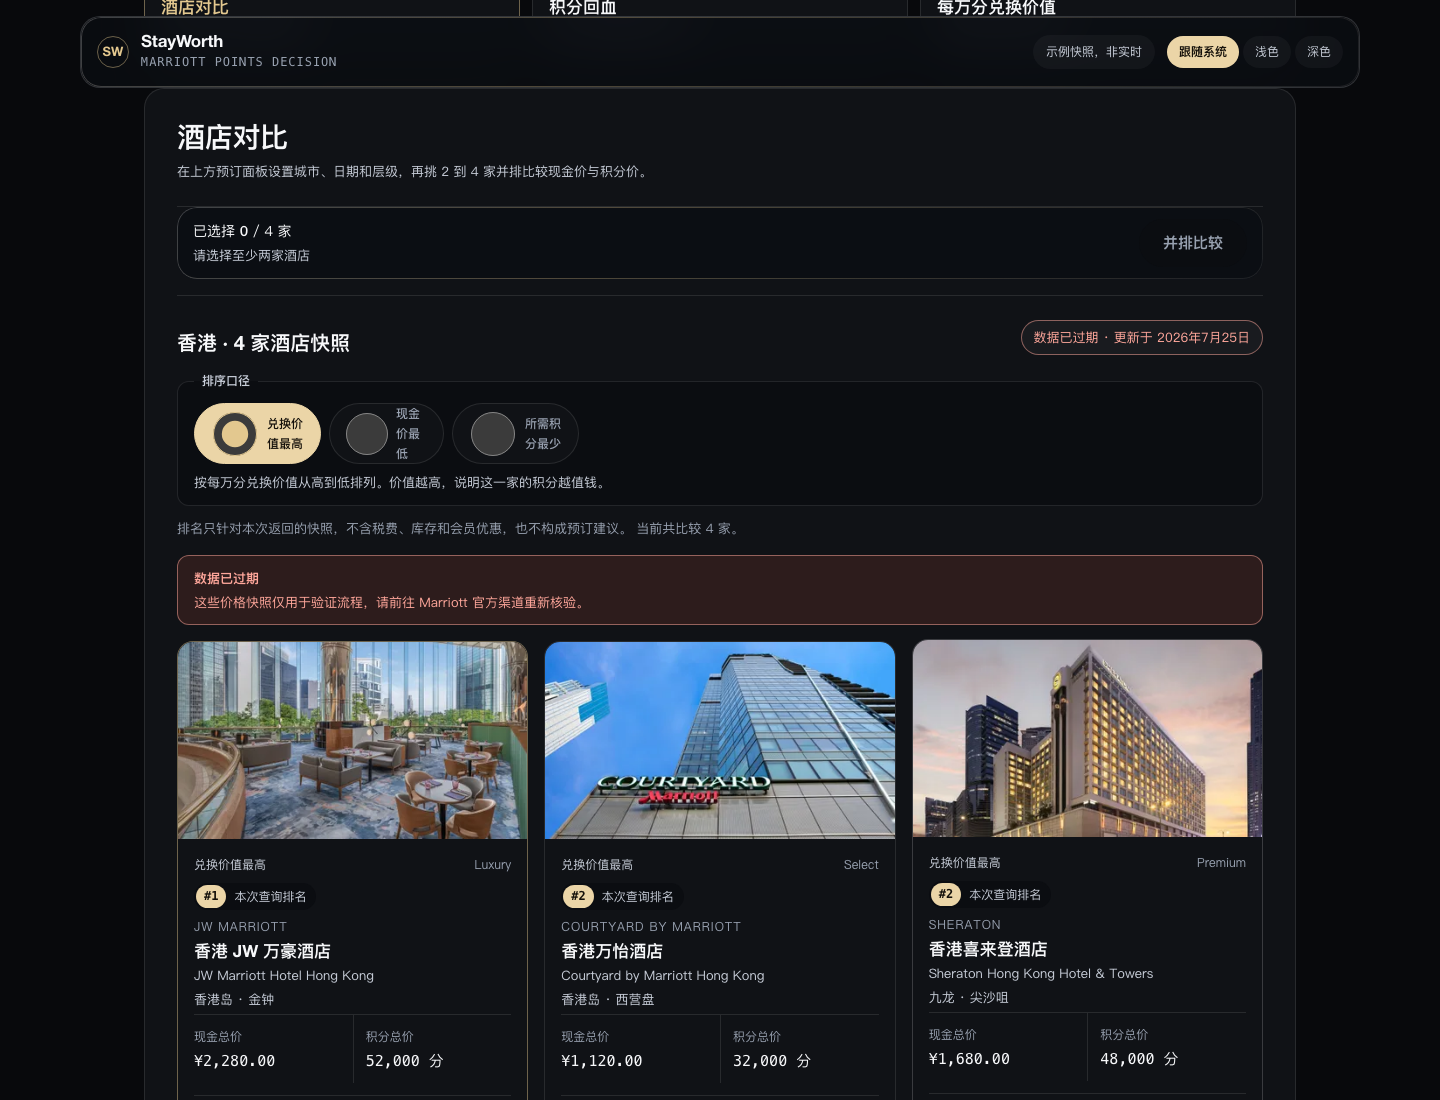
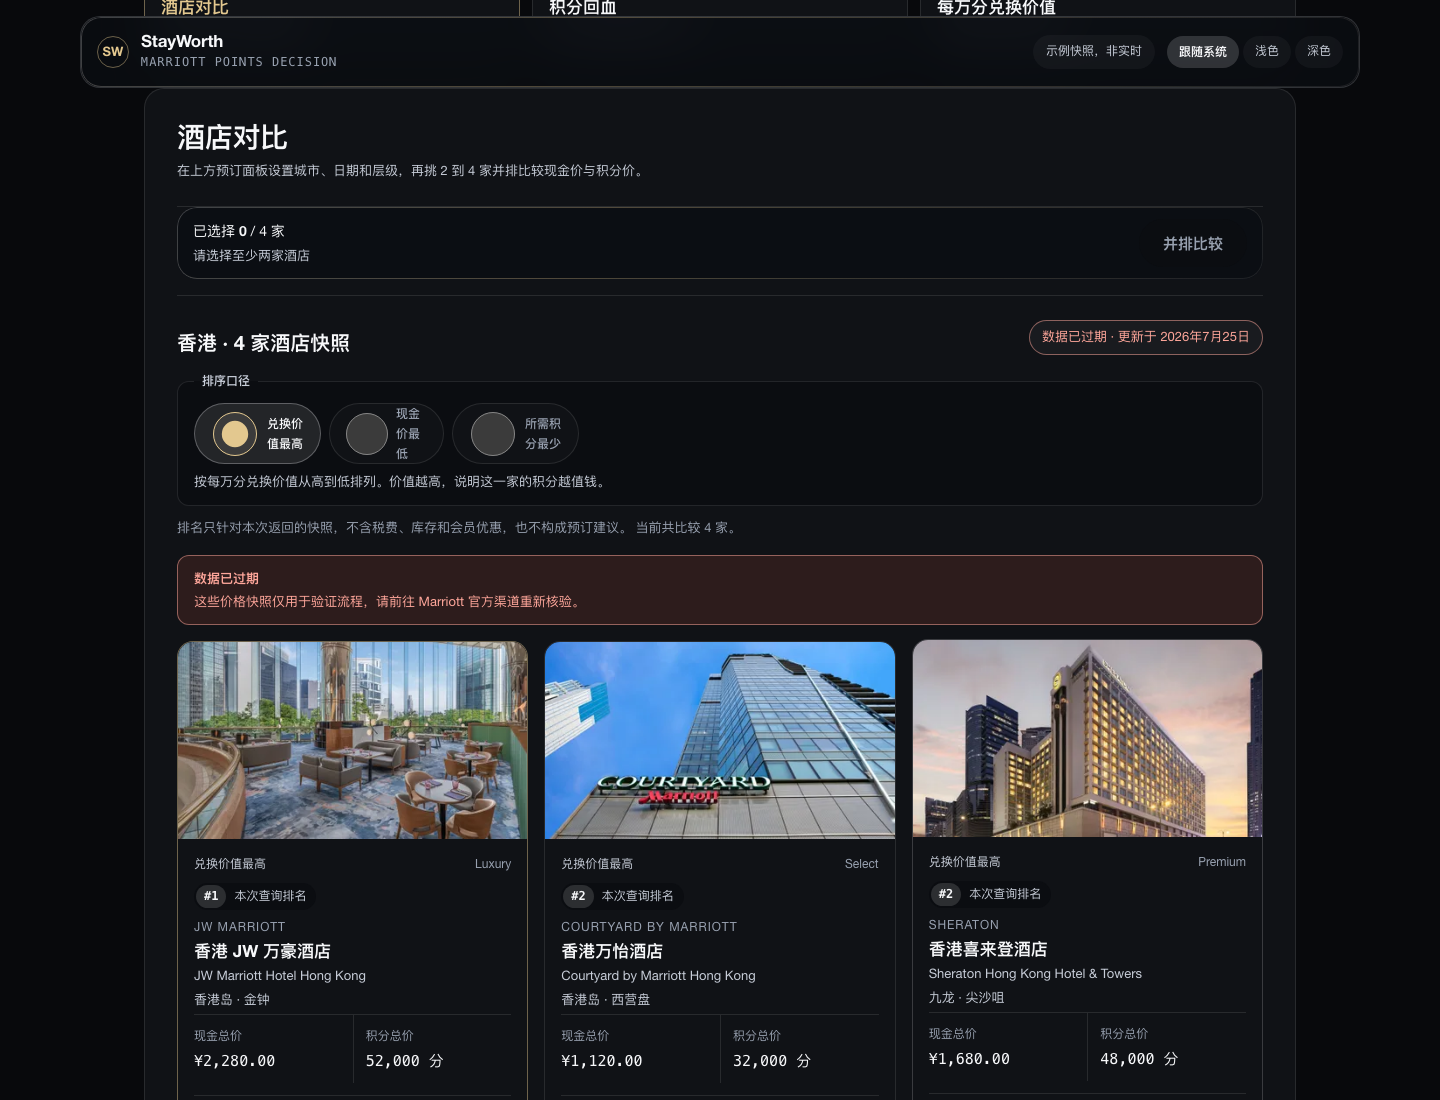
fix: strip the amber fills, compact the footer and unify the type
Colour: the functional layer and every interactive state are neutral now. The island, its chips, the comparison tray button, the ranking options, the Index tabs and currency toggle, the rank badge and the selected hotel button all drop the champagne fill for black/white alpha; the gold survives only as the headline gradient (titanium white to champagne) and as link text.

Slogan: an uppercase MARRIOTT BONVOY VALUE CALCULATOR kicker at 0.2em tracking sits above the 900-weight poster headline.

Footer: the trust block is now a transparent three-column footnote (12px, tertiary text, no cards, no shadows) instead of three large panels.

Type: the sans stack leads with Helvetica Neue so text and controls share one family, while numbers stay on the mono stack with tabular-nums.

Index: the view tabs moved 32px below the divider and picked up a 1px capsule highlight.

Verification: lint clean, 114 logic tests, 27 Chromium tests.

diff --git a/app/globals.css b/app/globals.css
@@ -17,8 +17,8 @@
     "Helvetica Neue", Helvetica, "PingFang SC", "Microsoft YaHei",
     "Noto Sans SC", Arial, sans-serif;
   --font-sans:
-    "PingFang SC", "Helvetica Neue", Helvetica, "Microsoft YaHei",
-    "Noto Sans SC", Arial, sans-serif;
+    "Helvetica Neue", Helvetica, Arial, "PingFang SC", "Microsoft YaHei",
+    "Noto Sans SC", sans-serif;
   --font-mono:
     "SF Mono", ui-monospace, SFMono-Regular, "JetBrains Mono", Consolas, Menlo,
     monospace;
@@ -110,8 +110,9 @@
     );
     --surface-panel-solid: light-dark(#ffffff, #16161a);
     --surface-oled: light-dark(#f4f5f7, #090a0f);
-    --hero-highlight-from: light-dark(#7a5b12, #fde68a);
-    --hero-highlight-to: light-dark(#7a5b12, #facc15);
+    /* 钛金白 → 香槟金：只在标题文字上出现，不再使用纯黄 */
+    --hero-highlight-from: light-dark(#7a5b12, #f7f8fa);
+    --hero-highlight-to: light-dark(#7a5b12, #e3c88f);
     --card-ambient: light-dark(
       rgba(122, 91, 18, 0.16),
       rgba(227, 200, 143, 0.22)
@@ -828,10 +829,11 @@ select[aria-invalid="true"] {
    ========================================================================== */
 
 .primary-button {
-  background-color: var(--accent-fill);
+  /* 主操作走钛金/墨色实体块：功能层与交互底色不再出现黄棕色调 */
+  background-color: var(--label-primary);
   border: 0;
   border-radius: 999px;
-  color: var(--ink-on-accent);
+  color: var(--surface-canvas);
   font-size: 0.9375rem;
   font-weight: 600;
   min-height: 44px;
@@ -1297,9 +1299,9 @@ dd {
 }
 
 .hotel-card.is-selected .select-button {
-  background-color: var(--accent-fill);
-  border-color: var(--accent-fill);
-  color: var(--ink-on-accent);
+  background-color: color-mix(in srgb, var(--label-primary) 14%, transparent);
+  border-color: var(--hairline-strong);
+  color: var(--label-primary);
 }
 
 .rank-chip {
@@ -1316,9 +1318,9 @@ dd {
 }
 
 .rank-number {
-  background-color: var(--accent-fill);
+  background-color: color-mix(in srgb, var(--label-primary) 14%, transparent);
   border-radius: 999px;
-  color: var(--ink-on-accent);
+  color: var(--label-primary);
   font-family: var(--font-mono);
   font-weight: 600;
   padding: 2px 8px;
@@ -1786,6 +1788,8 @@ dd {
   gap: 16px;
   justify-content: space-between;
   margin-bottom: 16px;
+  /* 与上方分割线拉开呼吸感，标签不再压迫区块标题 */
+  margin-top: 32px;
 }
 
 .index-tabs,
@@ -1799,6 +1803,7 @@ dd {
   background-color: var(--surface-raised);
   border: 1px solid var(--hairline);
   border-radius: 999px;
+  box-shadow: inset 0 1px 0 color-mix(in srgb, var(--label-primary) 8%, transparent);
   color: var(--label-primary);
   display: grid;
   gap: 2px;
@@ -1815,9 +1820,10 @@ dd {
 }
 
 .index-tabs button.is-active {
-  background-color: var(--accent-fill);
-  border-color: var(--accent-fill);
-  color: var(--ink-on-accent);
+  background-color: color-mix(in srgb, var(--label-primary) 10%, transparent);
+  border-color: color-mix(in srgb, var(--label-primary) 28%, transparent);
+  box-shadow: inset 0 1px 0 color-mix(in srgb, var(--label-primary) 14%, transparent);
+  color: var(--label-primary);
 }
 
 .index-tabs button span {
@@ -1832,7 +1838,7 @@ dd {
 
 .index-tabs button.is-active span,
 .index-tabs button.is-active small {
-  color: var(--ink-on-accent);
+  color: var(--label-primary);
 }
 
 .index-currency {
@@ -1856,9 +1862,9 @@ dd {
 }
 
 .index-currency button.is-active {
-  background-color: var(--accent-fill);
-  border-color: var(--accent-fill);
-  color: var(--ink-on-accent);
+  background-color: color-mix(in srgb, var(--label-primary) 10%, transparent);
+  border-color: color-mix(in srgb, var(--label-primary) 28%, transparent);
+  color: var(--label-primary);
 }
 
 .index-currency-note {
@@ -2047,12 +2053,12 @@ dd {
 }
 
 .ranking-options label.is-active {
-  background-color: var(--accent-fill);
-  border-color: var(--accent-fill);
+  background-color: color-mix(in srgb, var(--label-primary) 10%, transparent);
+  border-color: color-mix(in srgb, var(--label-primary) 28%, transparent);
 }
 
 .ranking-options label.is-active span {
-  color: var(--ink-on-accent);
+  color: var(--label-primary);
 }
 
 .ranking-options input {
@@ -2082,47 +2088,63 @@ dd {
 .trust-section {
   border-top: 1px solid var(--hairline);
   margin-top: 48px;
-  padding-top: 32px;
+  padding-top: 24px;
+}
+
+/* 脚注式页脚：透明底 + 小字 + 三列紧凑排布，回归附录层级 */
+.trust-section .section-heading {
+  border-bottom: 0;
+  gap: 2px;
+  padding-bottom: 16px;
+}
+
+.trust-section .section-heading h2 {
+  font-family: var(--font-sans);
+  font-size: 0.875rem;
+  font-weight: 600;
+  letter-spacing: 0;
 }
 
 .trust-grid {
   display: grid;
-  gap: 16px;
-  grid-template-columns: repeat(auto-fit, minmax(260px, 1fr));
+  gap: 24px;
+  grid-template-columns: repeat(3, minmax(0, 1fr));
 }
 
 .trust-grid article {
-  background-color: var(--surface-raised);
-  border: 1px solid var(--hairline);
-  border-radius: var(--radius-card);
-  box-shadow: var(--shadow-row);
-  padding: 24px;
+  background: transparent;
+  border: 0;
+  border-radius: 0;
+  box-shadow: none;
+  padding: 0;
 }
 
 .trust-grid h3 {
-  font-family: var(--font-display);
-  font-size: 1.0625rem;
+  color: var(--label-secondary);
+  font-family: var(--font-sans);
+  font-size: 0.75rem;
   font-weight: 600;
-  margin: 0 0 12px;
+  margin: 0 0 6px;
 }
 
 .trust-grid ul {
-  color: var(--label-secondary);
-  font-size: 0.8125rem;
-  line-height: 1.65;
+  color: var(--label-tertiary);
+  font-size: 0.75rem;
+  line-height: 1.6;
+  list-style: none;
   margin: 0;
-  padding-left: 16px;
+  padding-left: 0;
 }
 
 .trust-grid li + li {
-  margin-top: 8px;
+  margin-top: 4px;
 }
 
 .trust-grid p {
-  color: var(--label-secondary);
-  font-size: 0.8125rem;
-  line-height: 1.65;
-  margin: 0 0 8px;
+  color: var(--label-tertiary);
+  font-size: 0.75rem;
+  line-height: 1.6;
+  margin: 0 0 4px;
 }
 
 .trust-grid p:last-child {
@@ -2137,7 +2159,7 @@ dd {
 
 .trust-links a {
   color: var(--accent-text);
-  font-size: 0.8125rem;
+  font-size: 0.75rem;
   font-weight: 600;
 }
 
@@ -2161,8 +2183,8 @@ dd {
 }
 
 .theme-toggle button[aria-pressed="true"] {
-  background-color: var(--accent-fill);
-  color: var(--ink-on-accent);
+  background-color: color-mix(in srgb, var(--label-primary) 16%, transparent);
+  color: var(--label-primary);
   font-weight: 600;
 }
 
@@ -2205,9 +2227,10 @@ footer p {
 .hero-slogan-topline {
   color: var(--label-tertiary);
   font-size: 0.75rem;
-  font-weight: 500;
+  font-weight: 600;
   letter-spacing: 0.2em;
   margin: 0 0 16px;
+  text-transform: uppercase;
 }
 
 .hero-slogan-title {
@@ -2453,9 +2476,12 @@ footer p {
 
   .booking-panel,
   .module-panel,
-  .form-section,
-  .trust-grid article {
+  .form-section {
     padding: 16px;
+  }
+
+  .trust-grid {
+    grid-template-columns: 1fr;
   }
 
   /* 移动端托盘回到单手可达的底部 */

diff --git a/app/components/home/HeroSloganSection.tsx b/app/components/home/HeroSloganSection.tsx
@@ -57,7 +57,9 @@ export function HeroSloganSection() {
     <section className="hero-slogan" id="top">
       <div className="hero-slogan-grid">
         <div>
-          <p className="hero-slogan-topline">只做万豪的住宿决策工具</p>
+          <p className="hero-slogan-topline">
+            Marriott Bonvoy value calculator
+          </p>
           <h1 className="hero-slogan-title">
             现金还是积分，
             <em>哪个更值？</em>
